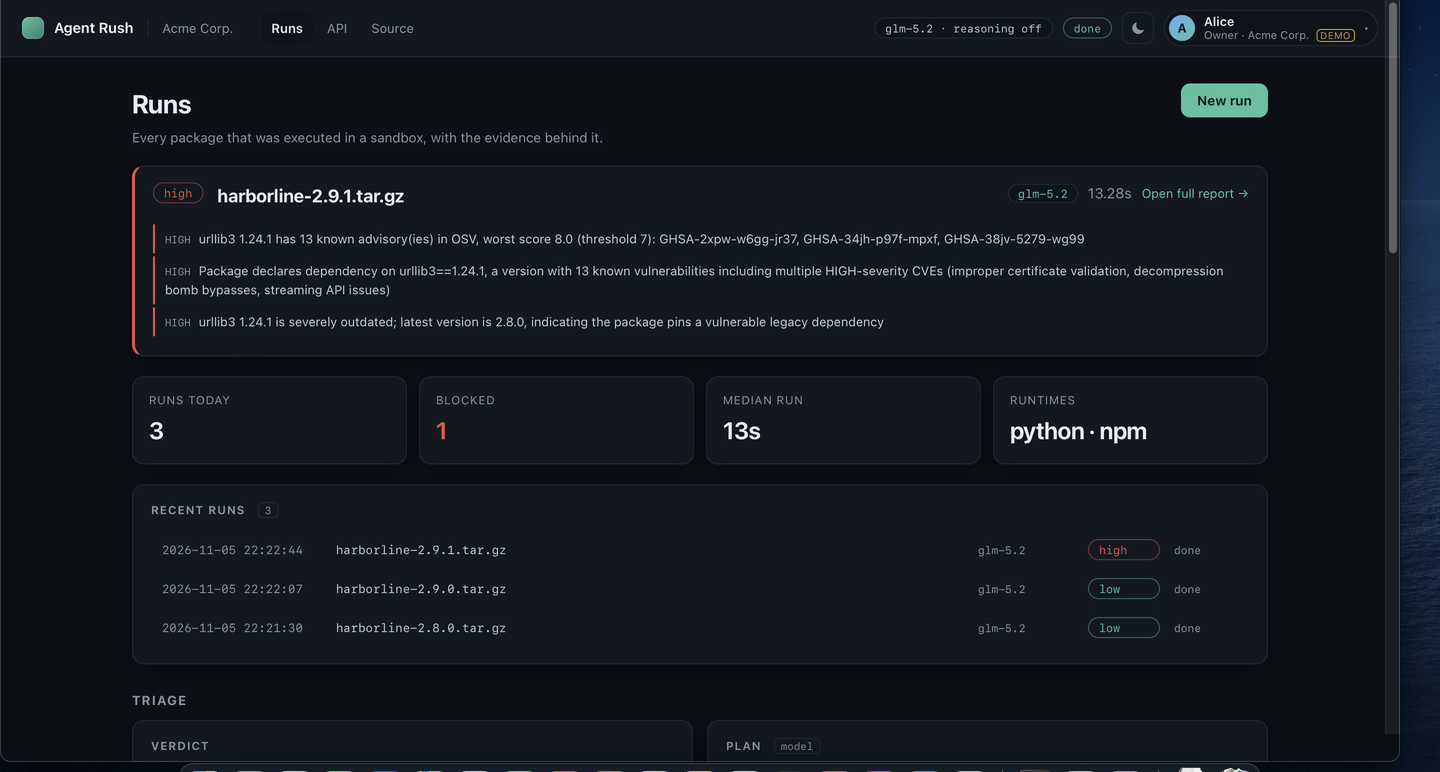
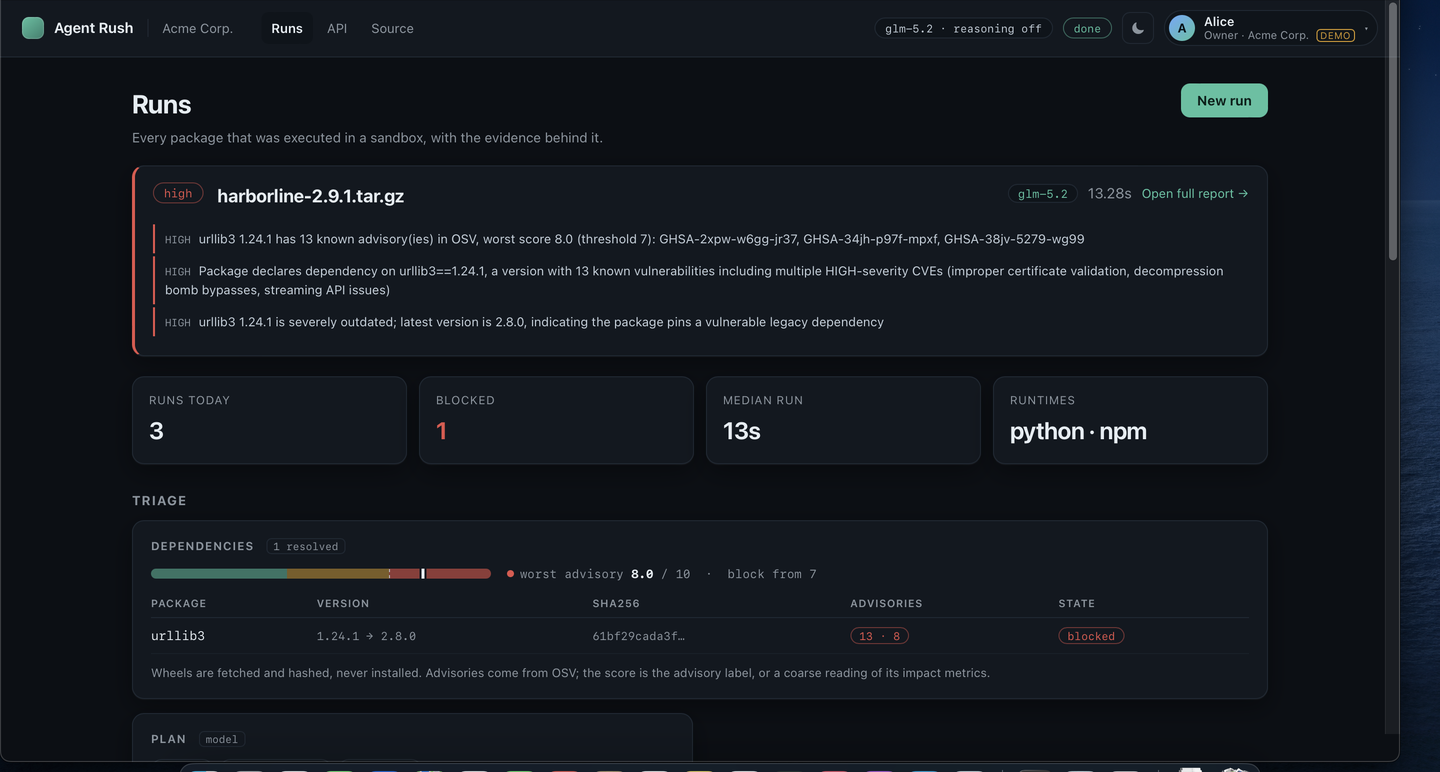
ui: dependency risk gets a gauge and a table, not a sentence
The hashes and the OSV lookups were only visible as findings text. Now a run shows a
dependency panel: a green/amber/red gauge with the block threshold marked and the worst
advisory score placed on it, plus a row per artifact with version (and what it is behind),
the sha256, the advisory count with its score, and a state pill.

Runs without declared dependencies hide the panel instead of showing an empty one.

In run view the standalone verdict panel is hidden (the hero already says it) and the
history is hidden (it is dashboard context), so the result and its evidence start at the
top of the page.

/health now reports dep_threshold so the UI marks the same line the backend enforces.

diff --git a/web/app.js b/web/app.js
@@ -91,6 +91,97 @@ function renderHero(run) {
   }
 }
 
+let DEP_THRESHOLD = 7;
+
+function parseArtifact(file) {
+  const match = /^(.+?)-(\d[^-]*)/.exec(file || '');
+  return match ? { name: match[1], version: match[2] } : { name: file || '—', version: '' };
+}
+
+function renderDependencies(run) {
+  const panel = $('deps-panel');
+  if (!panel) return;
+  const dep = (run.evidence || {}).dependencies || {};
+  const resolved = dep.resolved || [];
+  const declared = dep.declared || [];
+  if (!resolved.length && !declared.length) { panel.hidden = true; return; }
+
+  panel.hidden = false;
+  const vulns = dep.vulnerabilities || [];
+  const outdated = dep.outdated || [];
+  const scores = vulns.map((v) => v.max_score).filter((n) => typeof n === 'number');
+  const worst = scores.length ? Math.max(...scores) : 0;
+
+  $('deps-count').textContent = resolved.length ? `${resolved.length} resolved` : 'none resolved';
+
+  const mark = $('deps-mark');
+  mark.style.left = `${Math.min(100, worst * 10)}%`;
+  const level = worst >= DEP_THRESHOLD ? 'bad' : worst >= 4 ? 'warn' : 'good';
+  $('deps-caption').innerHTML =
+    `<span class="dot ${level}"></span>worst advisory <strong>${worst ? worst.toFixed(1) : '—'}</strong> / 10` +
+    ` &nbsp;·&nbsp; block from ${DEP_THRESHOLD}`;
+
+  const body = $('deps-table').querySelector('tbody');
+  body.innerHTML = '';
+  for (const item of resolved) {
+    const { name, version } = parseArtifact(item.file);
+    const vuln = vulns.find((v) => v.package === name) || null;
+    const behind = outdated.find((o) => o.package === name) || null;
+
+    const tr = document.createElement('tr');
+
+    const tdName = document.createElement('td');
+    tdName.className = 'pkgname';
+    tdName.textContent = name;
+
+    const tdVersion = document.createElement('td');
+    tdVersion.className = 'mono';
+    tdVersion.textContent = version + (behind ? ` → ${behind.latest}` : '');
+
+    const tdHash = document.createElement('td');
+    tdHash.className = 'mono';
+    tdHash.textContent = (item.sha256 || '').slice(0, 12) + '…';
+    tdHash.title = item.sha256 || '';
+
+    const tdAdv = document.createElement('td');
+    if (vuln && vuln.count) {
+      const pill = document.createElement('span');
+      pill.className = 'pill ' + (vuln.max_score >= DEP_THRESHOLD ? 'bad' : 'warn');
+      pill.textContent = `${vuln.count} · ${vuln.max_score ?? '?'}`;
+      pill.title = (vuln.vulns || []).map((v) => `${v.id} ${v.severity}`).join('\n');
+      tdAdv.appendChild(pill);
+    } else {
+      const pill = document.createElement('span');
+      pill.className = 'pill good';
+      pill.textContent = 'none';
+      tdAdv.appendChild(pill);
+    }
+
+    const tdState = document.createElement('td');
+    const state = document.createElement('span');
+    if (vuln && vuln.count && vuln.max_score >= DEP_THRESHOLD) {
+      state.className = 'pill bad'; state.textContent = 'blocked';
+    } else if (behind) {
+      state.className = 'pill warn'; state.textContent = 'behind';
+    } else {
+      state.className = 'pill good'; state.textContent = 'ok';
+    }
+    tdState.appendChild(state);
+
+    tr.append(tdName, tdVersion, tdHash, tdAdv, tdState);
+    body.appendChild(tr);
+  }
+
+  const note = $('deps-note');
+  if (!resolved.length) {
+    note.textContent = `Declared: ${declared.join(', ')} — nothing could be fetched, so nothing is known about it.`;
+  } else if (!vulns.length) {
+    note.textContent = 'Hashes are recorded for every artifact; no known advisories for this tree.';
+  } else {
+    note.textContent = 'Wheels are fetched and hashed, never installed. Advisories come from OSV; the score is the advisory label, or a coarse reading of its impact metrics.';
+  }
+}
+
 function renderVerdict(v) {
   const risk = $('risk');
   risk.innerHTML = '';
@@ -208,6 +299,7 @@ async function poll(id) {
     renderVerdict(run.verdict);
     renderFindings(run.verdict);
     renderHero(run);
+    renderDependencies(run);
   }
   renderEvidence(run);
   setStatus(run.state, run.state === 'done' ? 'ok' : run.state === 'failed' ? 'bad' : 'busy');
@@ -279,6 +371,7 @@ if (linked) {
 fetch('health').then((r) => r.json()).then((h) => {
   const chip = $('model-chip');
   if (!chip) return;
+  if (typeof h.dep_threshold === 'number') DEP_THRESHOLD = h.dep_threshold;
   if (h.model_configured) {
     chip.textContent = `${h.model || 'model'} · reasoning ${h.reasoning || 'off'}`;
     chip.classList.remove('off');

diff --git a/web/app.css b/web/app.css
@@ -276,12 +276,18 @@ textarea { resize: vertical; }
 .status.bad { color: var(--danger); border-color: color-mix(in srgb, var(--danger) 45%, transparent); }
 
 /* Run view: when a specific run is opened, the verdict matters more than the form. */
-body.run-view #verdict { order: 1; }
+/* Reading a run: the hero already carries risk and summary, so the standalone verdict
+   panel is redundant there, and history is context for the dashboard, not for a result. */
+body.run-view #verdict { display: none; }
+body.run-view #deps-panel { order: 1; }
 body.run-view #plan    { order: 2; }
 body.run-view #findings-panel { order: 3; }
 body.run-view #evidence { order: 4; }
 body.run-view #trace-panel { order: 5; }
 body.run-view #task    { order: 6; opacity: .9; }
+/* The history list lives outside the grid, so ordering cannot move it. While a run is
+   open it is context nobody asked for -- hide it and leave the result at the top. */
+body.run-view #history { display: none; }
 
 .modelchip {
   font: 11px ui-monospace, SFMono-Regular, Menlo, monospace;
@@ -328,3 +334,44 @@ body.run-view #task    { order: 6; opacity: .9; }
 .run-row { grid-template-columns: 160px minmax(0, 1fr) 96px 72px 64px; }
 .run-row .model { font-size: 11px; color: var(--muted); }
 @media (max-width: 900px) { .run-row .model { display: none; } }
+
+/* Dependency risk, visually: the score is the thing that decides the block, so it gets
+   a gauge and a colour, not a sentence in a findings list. */
+.gauge-row { display: flex; align-items: center; gap: 16px; flex-wrap: wrap; margin-bottom: 14px; }
+.gauge { position: relative; width: 340px; height: 10px; border-radius: 999px; overflow: hidden; background: var(--surface-2); }
+.gauge-track { position: absolute; inset: 0; }
+.gauge-zone { position: absolute; top: 0; bottom: 0; }
+.gauge-zone.green { left: 0; width: 40%; background: color-mix(in srgb, var(--accent) 55%, transparent); }
+.gauge-zone.amber { left: 40%; width: 30%; background: color-mix(in srgb, var(--warn) 55%, transparent); }
+.gauge-zone.red { left: 70%; width: 30%; background: color-mix(in srgb, var(--danger) 60%, transparent); }
+.gauge-mark {
+  position: absolute; top: -3px; bottom: -3px; width: 3px; border-radius: 2px;
+  background: var(--text); box-shadow: 0 0 0 2px var(--surface);
+  transform: translateX(-50%);
+}
+.gauge-threshold {
+  position: absolute; top: -5px; bottom: -5px; left: 70%; width: 1px;
+  border-left: 1px dashed var(--text-dim); opacity: .8;
+}
+.gauge-caption { font: 12px ui-monospace, SFMono-Regular, Menlo, monospace; color: var(--muted); }
+.gauge-caption strong { color: var(--text); }
+
+table.deps { width: 100%; border-collapse: collapse; font-size: 12.5px; }
+table.deps th {
+  text-align: left; font-size: 10.5px; text-transform: uppercase; letter-spacing: .07em;
+  color: var(--muted); font-weight: 600; padding: 0 10px 6px 0; border-bottom: 1px solid var(--border);
+}
+table.deps td { padding: 8px 10px 8px 0; border-bottom: 1px solid var(--border-soft); vertical-align: middle; }
+table.deps td.mono { font-family: ui-monospace, SFMono-Regular, Menlo, monospace; font-size: 11.5px; color: var(--muted); }
+table.deps td.pkgname { font-family: ui-monospace, SFMono-Regular, Menlo, monospace; }
+.pill {
+  display: inline-block; font: 11px ui-monospace, SFMono-Regular, Menlo, monospace;
+  border-radius: 999px; padding: 1px 8px; border: 1px solid var(--border); color: var(--muted);
+}
+.pill.bad { color: var(--danger); border-color: color-mix(in srgb, var(--danger) 45%, transparent); }
+.pill.warn { color: var(--warn); border-color: color-mix(in srgb, var(--warn) 45%, transparent); }
+.pill.good { color: var(--accent); border-color: color-mix(in srgb, var(--accent) 45%, transparent); }
+.dot { display: inline-block; width: 7px; height: 7px; border-radius: 50%; margin-right: 6px; vertical-align: 1px; }
+.dot.good { background: var(--accent); }
+.dot.warn { background: var(--warn); }
+.dot.bad { background: var(--danger); }

diff --git a/web/index.html b/web/index.html
@@ -4,7 +4,7 @@
 <meta charset="utf-8">
 <meta name="viewport" content="width=device-width, initial-scale=1">
 <title>Agent Rush — Package Triage</title>
-<link rel="stylesheet" href="app.css?v=9">
+<link rel="stylesheet" href="app.css?v=12">
 <script>
   // Set the theme before first paint, otherwise the page flashes white.
   try {
@@ -114,6 +114,26 @@
       <p class="note" id="egress"></p>
     </section>
 
+    <section class="panel wide" id="deps-panel" hidden>
+      <h2>Dependencies <span class="tag" id="deps-count"></span></h2>
+      <div class="gauge-row">
+        <div class="gauge" id="deps-gauge">
+          <div class="gauge-track"></div>
+          <div class="gauge-zone green"></div>
+          <div class="gauge-zone amber"></div>
+          <div class="gauge-zone red"></div>
+          <div class="gauge-mark" id="deps-mark"></div>
+          <div class="gauge-threshold" title="block threshold"></div>
+        </div>
+        <div class="gauge-caption" id="deps-caption">—</div>
+      </div>
+      <table class="deps" id="deps-table">
+        <thead><tr><th>Package</th><th>Version</th><th>sha256</th><th>Advisories</th><th>State</th></tr></thead>
+        <tbody></tbody>
+      </table>
+      <p class="note" id="deps-note"></p>
+    </section>
+
     <section class="panel wide" id="findings-panel">
       <h2>Findings <span class="tag" id="finding-count"></span></h2>
       <ul class="findings" id="findings"><li class="empty">nothing yet</li></ul>
@@ -131,6 +151,6 @@
   <span id="runid"></span>
 </footer>
 
-<script src="app.js?v=9"></script>
+<script src="app.js?v=12"></script>
 </body>
 </html>

diff --git a/api/main.py b/api/main.py
@@ -100,6 +100,7 @@ def health():
         "model_configured": bool(os.environ.get("AR_VULTR_KEY") and os.environ.get("AR_MODEL")),
         "model": os.environ.get("AR_MODEL") or None,
         "reasoning": "on" if os.environ.get("AR_REASONING", "").lower() == "on" else "off",
+        "dep_threshold": float(os.environ.get("AR_DEP_RISK_THRESHOLD", "7")),
         "runs_dir": str(RUNS_DIR),
         "sandbox_override": bool(os.environ.get("AR_SANDBOX_CMD")),
         "limits": GUARD.snapshot(),

diff --git a/README.md b/README.md
@@ -41,8 +41,10 @@ last runs — real records from the store. The account chip is demo data and say
 ![One blocked run: verdict first](docs/screenshots/demo-blocked.png)
 
 *Opening a run puts the verdict at the top: risk, the model that produced it, duration, and
-the three findings worth reading. Same run, three versions of one package — `2.8.0` and
-`2.9.0` build clean, `2.9.1` pins `urllib3 1.24.1` and is blocked.*
+the three findings worth reading. Below it the dependency panel: a gauge from green to red
+with the block threshold marked, and one row per artifact with its hash, advisory count and
+state. Same run, three versions of one package — `2.8.0` and `2.9.0` build clean, `2.9.1`
+pins `urllib3 1.24.1` and is blocked.*
 
 ![The same run further down: findings with their source, including the injection finding](docs/screenshots/ui-injection.png)
 
